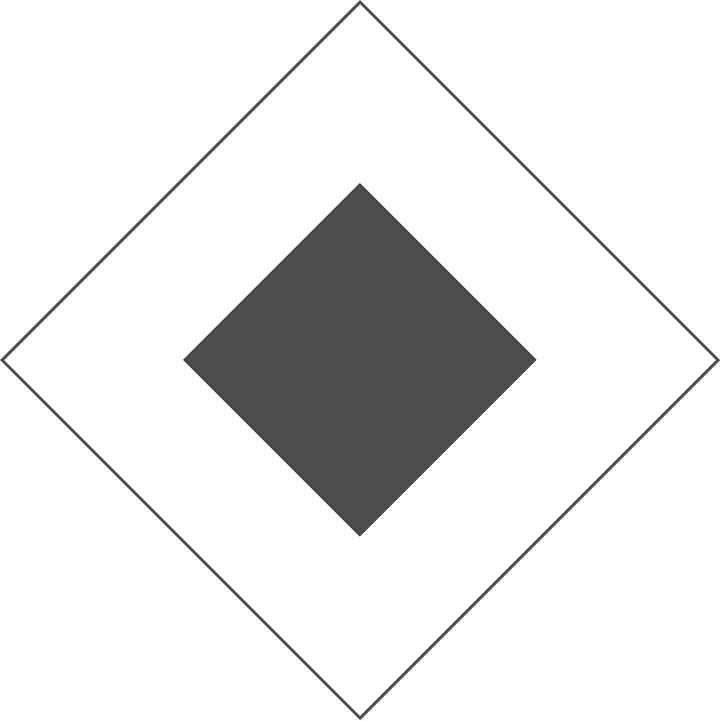
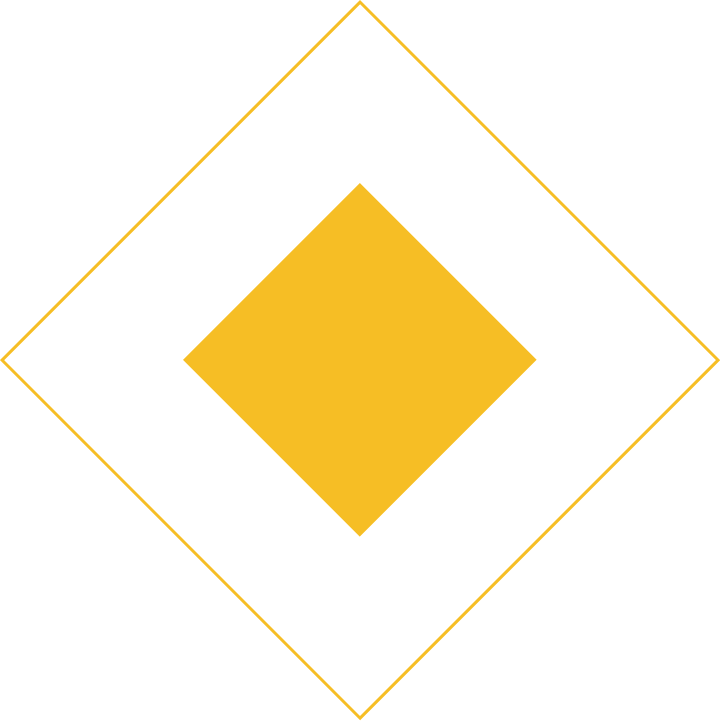
fix losangle color

diff --git a/src/app/inicio/heroSection.jsx b/src/app/inicio/heroSection.jsx
@@ -18,7 +18,7 @@ const HeroSection = () => {
   return (
     <section className="flex flex-col w-full items-center justify-center gap-6 lg:flex-row-reverse lg:justify-between h-[28.75rem] lg:h-[20rem] lmd:h-[35rem] xlg:h-[45rem]">
       <div className="relative w-60 h-60 lg:w-[25rem] lg:h-[25rem] lmd:w-[38rem] lmd:h-[38rem] xlg:w-[45rem] xlg:h-[45rem]">
-        <Image src={vector} fill className="opacity-30" />
+        <Image src={vector} fill className="opacity-70" />
         <span className="flex flex-col absolute top-[5rem] right-[-3.2rem] lg:top-[9.5rem] lg:right-[1.5rem] lmd:top-[14rem] lmd:right-[3.3rem] xlg:top-[17rem] xlg:right-28 w-[20rem] lmd:w-[30.6rem]">
           <strong>Gasparini Contabilidade,</strong>
           <mark>há mais de 50 anos</mark>
